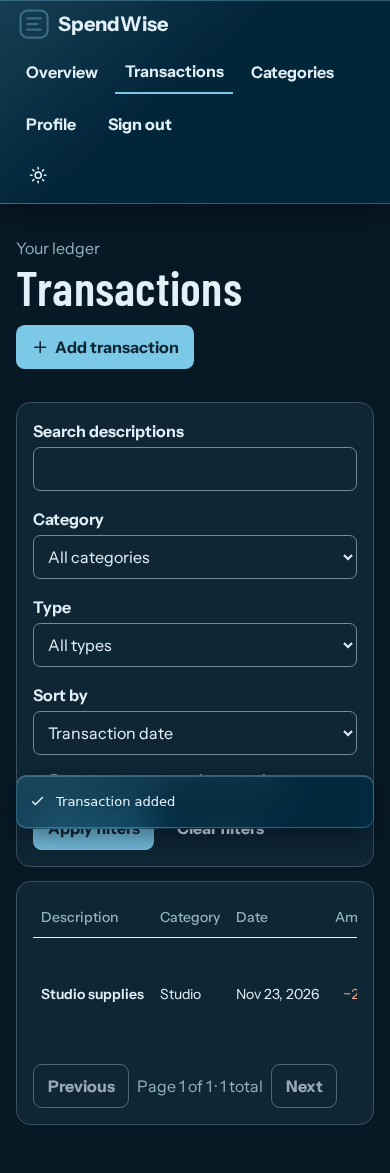
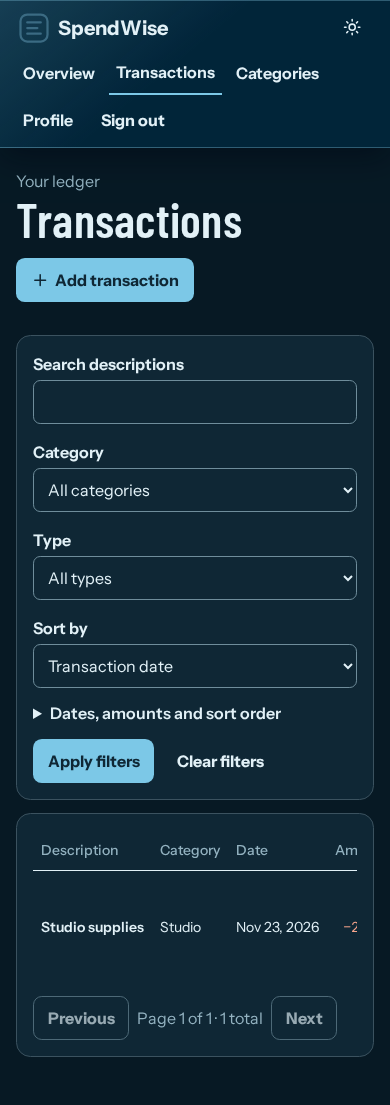
fix(frontend): improve mobile navigation and chart contrast
Compact the sticky header on small screens, theme chart labels, and make toasts dismissible. Cover the new layout in Playwright and refresh the screenshots.

diff --git a/frontend/e2e/spendwise.spec.ts b/frontend/e2e/spendwise.spec.ts
@@ -64,10 +64,13 @@ test('signs in, records an expense and sees it in the report', async ({ page, re
     await page.setViewportSize({ width: 390, height: 844 })
     await page.getByRole('link', { name: 'Transactions', exact: true }).click()
     await expect(page.getByRole('heading', { name: 'Transactions' })).toBeVisible()
+    const dismiss = page.getByRole('button', { name: 'Close toast' })
+    if (await dismiss.isVisible()) await dismiss.click()
     await page.screenshot({ path: resolve(dir, 'transactions-mobile.png'), fullPage: true, animations: 'disabled' })
   }
   await page.setViewportSize({ width: 390, height: 844 })
   expect(await page.evaluate(() => document.documentElement.scrollWidth <= innerWidth)).toBe(true)
+  expect((await header.boundingBox())?.height).toBeLessThan(165)
   await page.emulateMedia({ reducedMotion: 'reduce', forcedColors: 'active' })
   await expect.poll(() => header.evaluate(element => getComputedStyle(element).backdropFilter)).toBe('none')
   await page.emulateMedia({ forcedColors: 'none' })

diff --git a/frontend/src/features/reports/CategoryChart.tsx b/frontend/src/features/reports/CategoryChart.tsx
@@ -17,7 +17,7 @@ export function CategoryChart({ entries }: { entries: CategoryShare[] }) {
       <ChartContainer config={chartConfig} className="aspect-auto min-h-36 w-full" style={{ height: Math.max(144, plot.length * 33) }}>
         <BarChart accessibilityLayer={false} layout="vertical" data={plot} margin={{ right: 12, left: 4 }}>
           <XAxis type="number" domain={[0, 100]} hide />
-          <YAxis type="category" dataKey="category" tickLine={false} axisLine={false} width={97} tickMargin={5} />
+          <YAxis type="category" dataKey="category" tickLine={false} axisLine={false} tick={{ fill: 'var(--muted)', fontSize: 12 }} width={97} tickMargin={5} />
           <Bar dataKey="share" fill="var(--color-share)" radius={4} maxBarSize={16} isAnimationActive={false} />
         </BarChart>
       </ChartContainer>

diff --git a/frontend/src/styles.css b/frontend/src/styles.css
@@ -130,3 +130,15 @@ table [data-slot="table-head"] { color: var(--muted); }
   .dashboard-grid { grid-template-columns: minmax(0, 5fr) minmax(0, 7fr); }
   .auth-grid { grid-template-columns: 1fr 1fr; align-items: start; margin-top: 5rem; }
 }
+
+@media (max-width: 42rem) {
+  .nav-inner {
+    display: grid;
+    grid-template-columns: 1fr auto;
+    gap: .1rem .65rem;
+  }
+  .nav-inner > .sw-button { grid-column: 2; grid-row: 1; }
+  .nav-inner > .main-links { grid-column: 1 / -1; grid-row: 2; gap: .15rem .4rem; }
+  .main-links a { padding-inline: .45rem; }
+  .app-main { padding-block-start: 1.3rem; }
+}

diff --git a/frontend/src/components/ui/sonner.tsx b/frontend/src/components/ui/sonner.tsx
@@ -17,6 +17,7 @@ const Toaster = ({ ...props }: ToasterProps) => {
     <Sonner
       theme={theme as ToasterProps["theme"]}
       className="toaster group"
+      closeButton
       toastOptions={{ className: "glass-surface" }}
       icons={{
         success: <CheckIcon className="size-4" aria-hidden="true" />,

diff --git a/docs/CHANGELOG_AI.md b/docs/CHANGELOG_AI.md
@@ -169,6 +169,19 @@ Verified the production nginx proxy with an isolated HTTPS ingress and the real 
 | `README.md` | Linked the production release blocker | Surface the required remediation before deployment |
 | `docs/CHANGELOG_AI.md` | Recorded the follow-up | Track the release decision |
 
+### Step 7 · Visual verification follow-up
+
+| File | What changed | Why |
+|---|---|---|
+| `frontend/src/styles.css` | Placed the theme toggle next to the wordmark at mobile widths | Reduce the height of sticky navigation |
+| `frontend/src/features/reports/CategoryChart.tsx` | Applied the theme’s muted text color to chart labels | Improve dark-mode label contrast |
+| `frontend/src/components/ui/sonner.tsx` | Enabled toast dismissal | Keep feedback from covering mobile controls |
+| `frontend/e2e/spendwise.spec.ts` | Checked mobile nav height and dismissed the toast before the mobile screenshot | Keep the compact layout covered |
+| `docs/screenshots/frontend/dashboard-dark.png` | Refreshed the browser screenshot | Show the final chart contrast |
+| `docs/screenshots/frontend/dashboard-light.png` | Refreshed the browser screenshot | Show the final UI |
+| `docs/screenshots/frontend/transactions-mobile.png` | Refreshed the browser screenshot | Show the more compact navigation |
+| `docs/CHANGELOG_AI.md` | Recorded the screenshot review fixes | Track this visual follow-up |
+
 ## 2026-11-23 — `codex/20261123-overload-and-readme`
 
 Measure API capacity, add overload protection, and update the README. Prepare a Make-only local setup for the API and monitoring.
